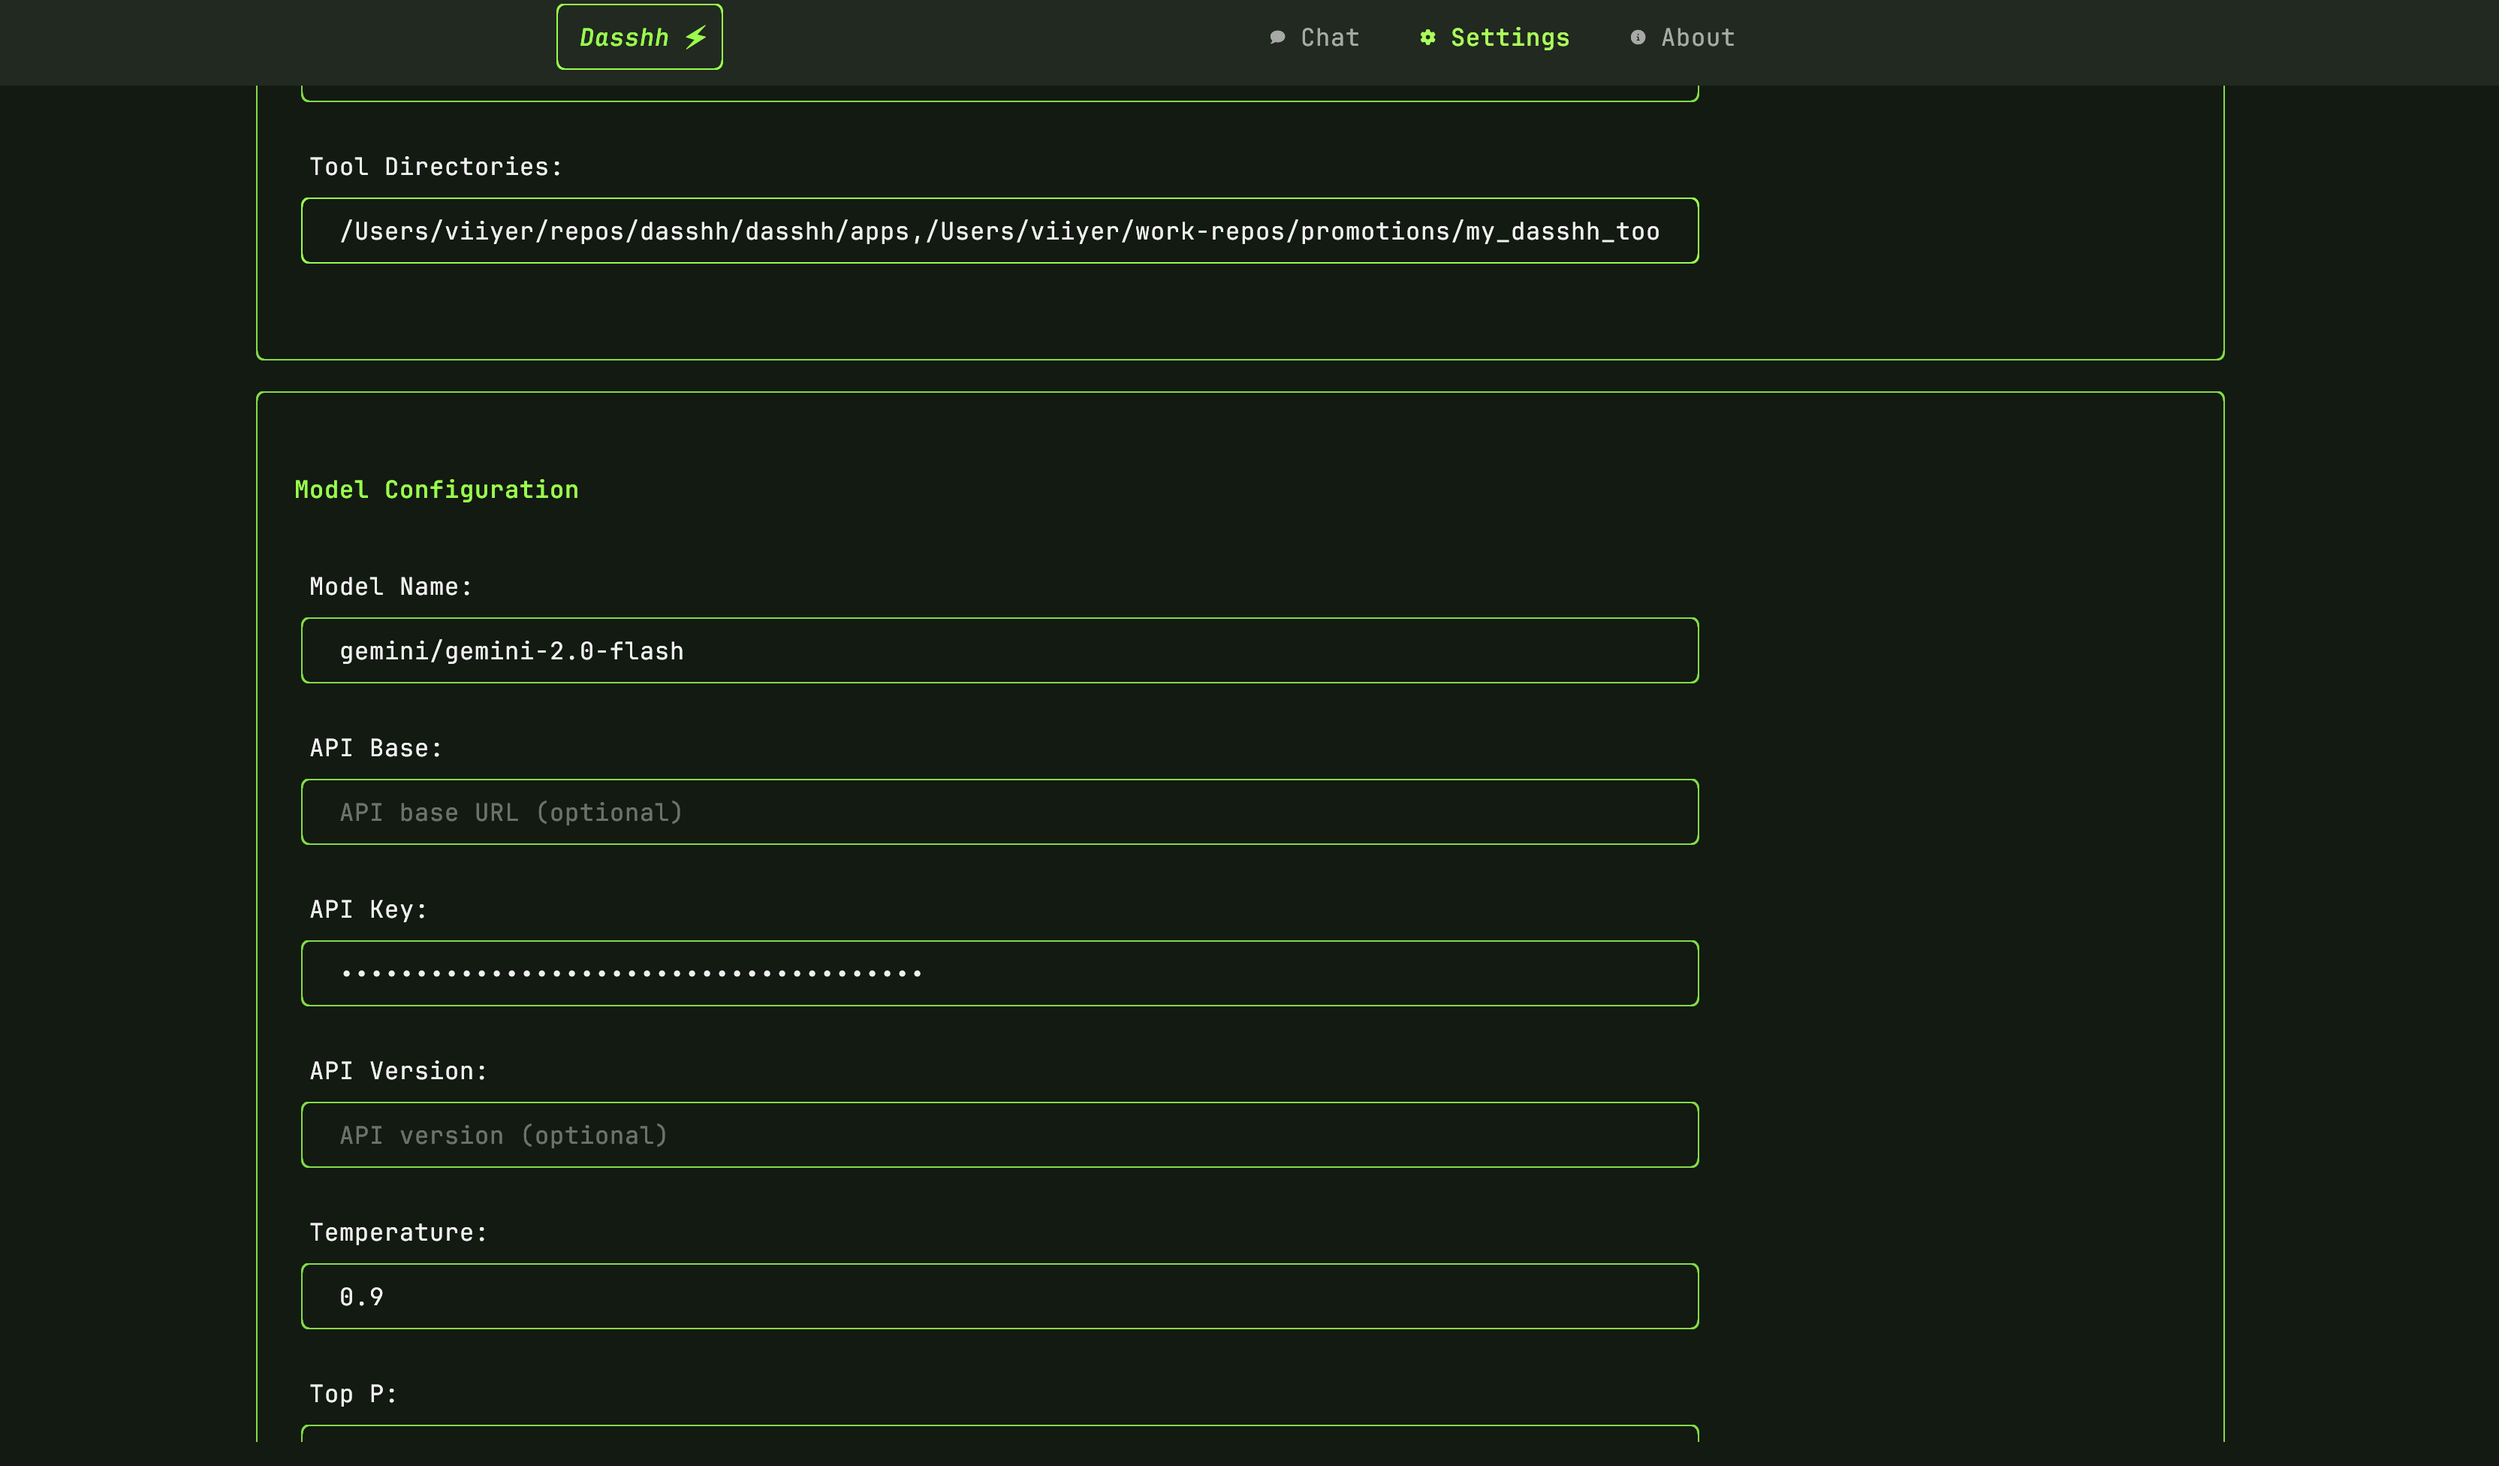
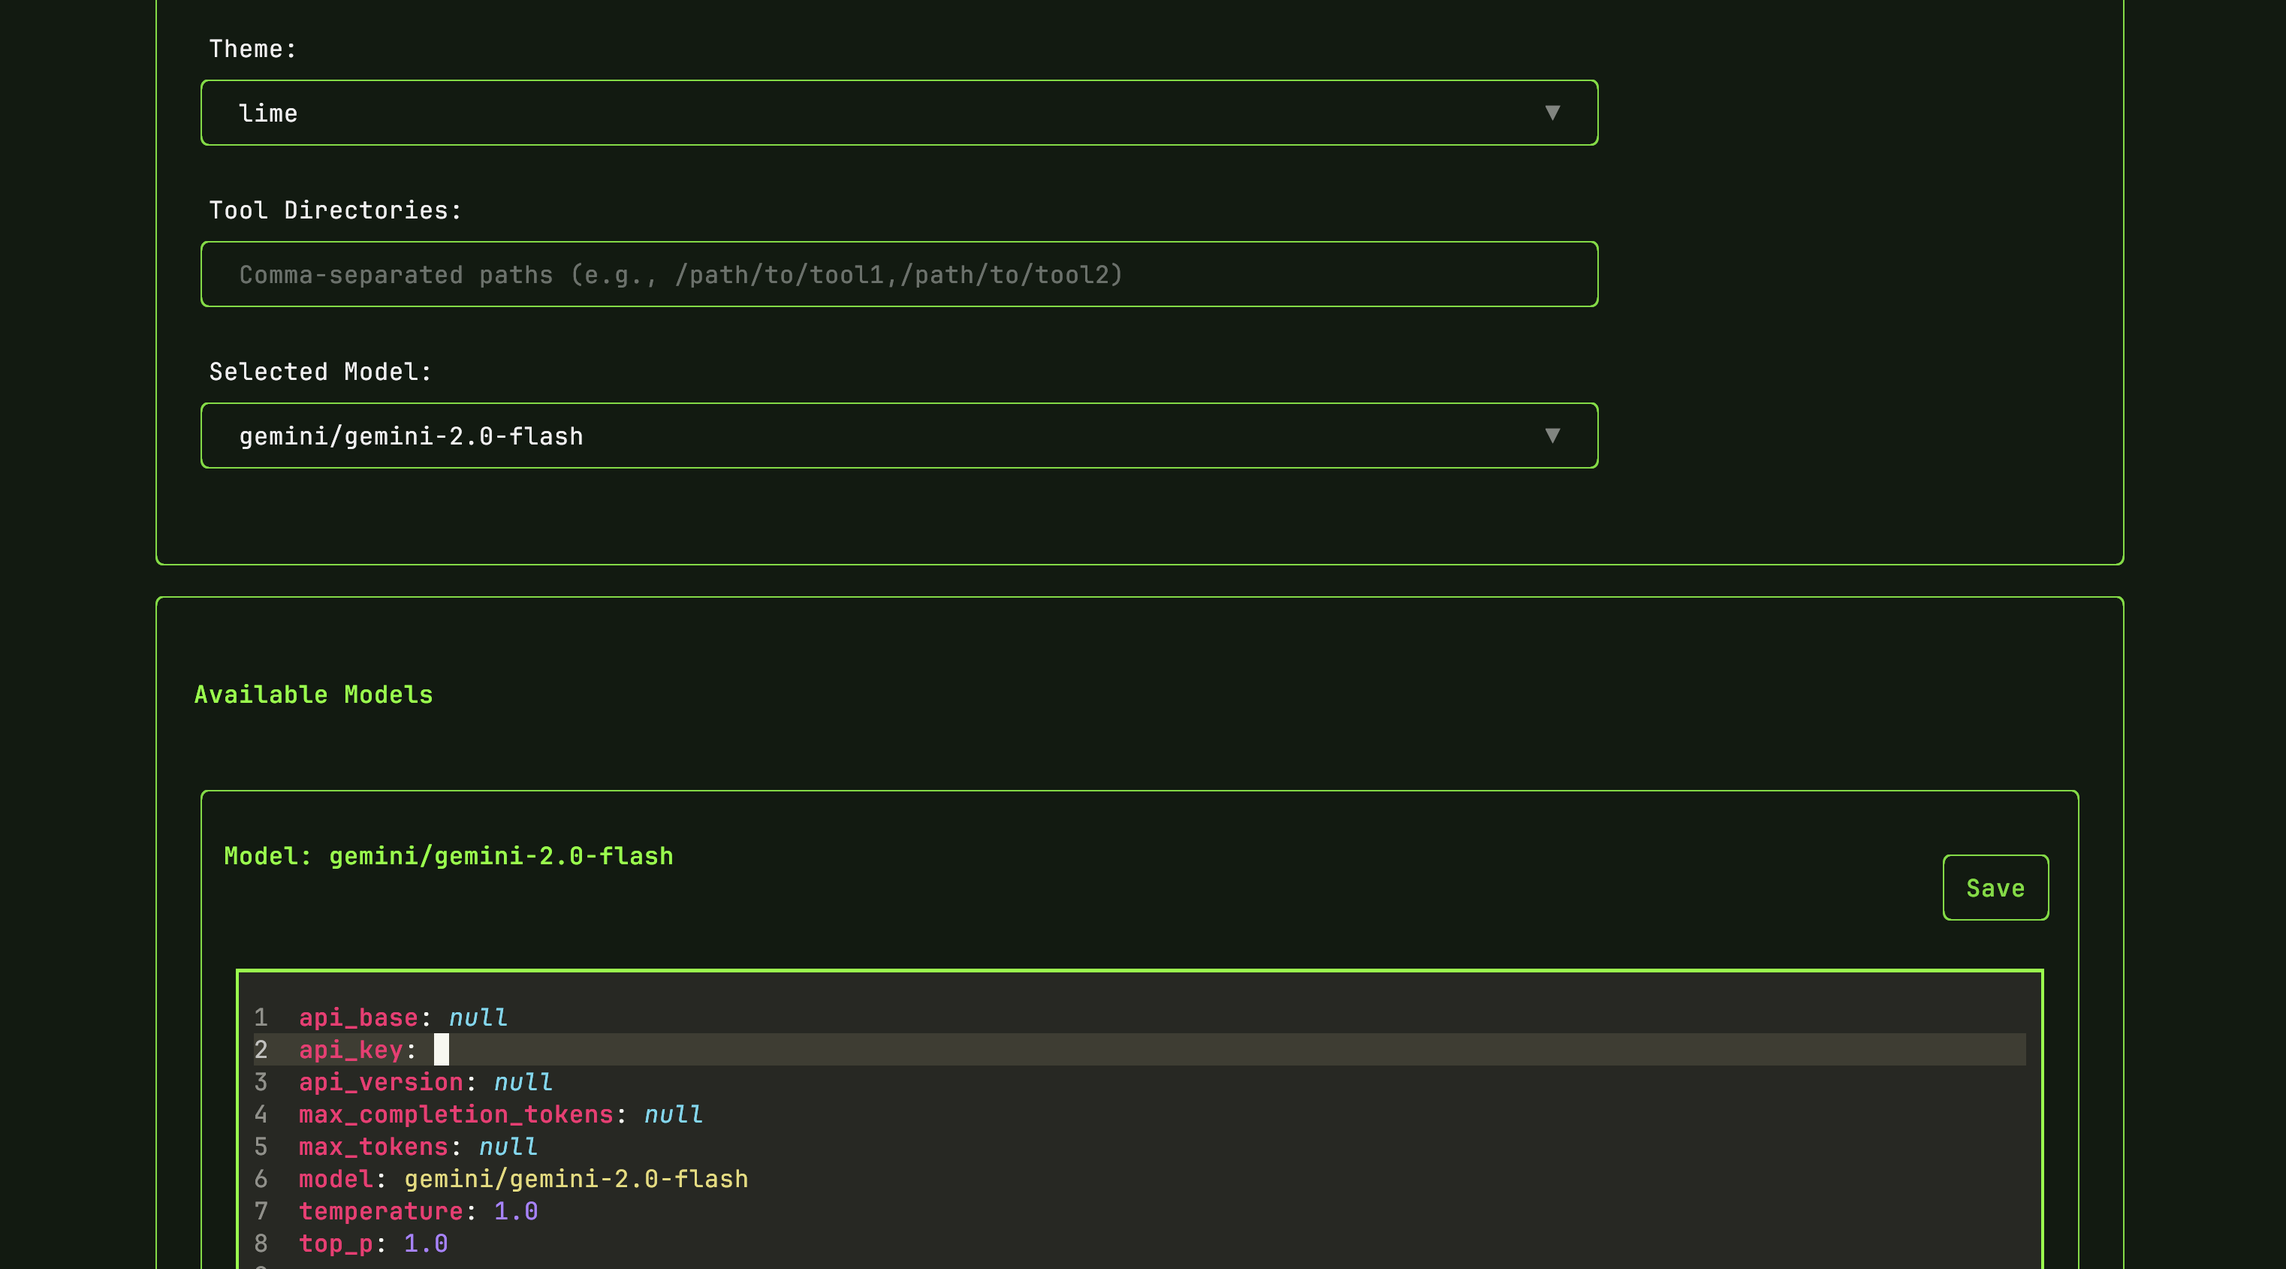
refactor: update runtime documentation and configuration to support new multi-model structure

diff --git a/docs/api/runtime.md b/docs/api/runtime.md
@@ -7,68 +7,31 @@ This page lays out all the methods and attributes available on the DasshhRuntime
 
 <!-- ----------------------- ATTRIBUTES ---------------------------------- -->
 
-## `attr` model
+## `attr` model_config
 
-The model to use for the runtime
+The model configuration dictionary containing all LiteLLM parameters
 
 ```python
-model: str = ""
+model_config: dict = {}
 ```
 
-## `attr` api_base
+This dictionary contains the complete model configuration (via `litellm_params` key) including:
 
-The base URL for the API
+- `model`: The model provider and name (e.g., "gemini/gemini-2.0-flash")
+- `api_key`: The API key for the chosen provider
+- `api_base`: The base URL for the API (optional)
+- `api_version`: The API version to use (optional)
+- `temperature`: The temperature for the model (default: 1.0)
+- `top_p`: The top_p value for the model (default: 1.0)
+- `max_tokens`: The maximum number of tokens to generate
+- `max_completion_tokens`: The maximum number of tokens for completion
 
-```python
-api_base: str = ""
-```
+## `attr` system_prompt
 
-## `attr` api_key
-
-The API key to use for the runtime
-
-```python
-api_key: str = ""
-```
-
-## `attr` api_version
-
-The API version to use for the runtime
+The system prompt for the runtime
 
 ```python
-api_version: str = ""
-```
-
-## `attr` temperature
-
-The temperature to use for the runtime
-
-```python
-temperature: float = 1.0
-```
-
-## `attr` top_p
-
-The top_p to use for the runtime
-
-```python
-top_p: float = 1.0
-```
-
-## `attr` max_tokens
-
-The max_tokens to use for the runtime
-
-```python
-max_tokens: int | None = None
-```
-
-## `attr` max_completion_tokens
-
-The max_completion_tokens to use for the runtime
-
-```python
-max_completion_tokens: int | None = None
+system_prompt: str = "Your name is Dasshh..."
 ```
 
 ## `attr` skip_summarization
@@ -81,10 +44,10 @@ skip_summarization: bool = False
 
 <!-- ---------------- PROPERTIES ------------------------------------- -->
 
-## `property` system_prompt
+## `property` get_system_prompt
 
 ```python
-system_prompt -> dict
+get_system_prompt() -> dict
 ```
 
 Returns the system prompt as a formatted message dictionary
@@ -100,16 +63,25 @@ Returns the system prompt as a formatted message dictionary
 ## `method` __init__
 
 ```python
-__init__(session_service: SessionService)
+__init__(
+    *,
+    session_service: SessionService,
+    model_config: dict = {},
+    system_prompt: str = "",
+    skip_summarization: bool = False,
+)
 ```
 
-Initialize the DasshhRuntime with a session service
+Initialize the DasshhRuntime with configuration parameters
 
 **Parameters:**
 
 | Param|<div style="width: 100px">Default</div> |Description|
 | ------------- | :----------------:  | :----------------------------------------------------------------------------------------|
 | session_service |                   | The SessionService instance for managing conversations and events                         |
+| model_config | {} | Dictionary containing LiteLLM model configuration parameters |
+| system_prompt | "" | Custom system prompt for the assistant |
+| skip_summarization | False | Whether to skip summarization after tool calls |
 
 ## `method` start
 
@@ -155,20 +127,6 @@ Submit a query to the runtime for processing
 | None          |                     | This method is async and doesn't return a value                                          |
 
 <!-- ------------------ PRIVATE METHODS -------------------------------------- -->
-
-## `method` _load_model_config
-
-```python
-_load_model_config() -> None
-```
-
-Load model configuration from the config file
-
-**Raises:**
-
-| Type|<div style="width: 100px">Default</div> |Description|
-| ------------- | :----------------:  | :----------------------------------------------------------------------------------------|
-| ValueError    |                     | If API key is not set in configuration                                                   |
 
 ## `method` _generate_prompt
 
@@ -227,22 +185,35 @@ async _handle_tool_calls(
 ) -> None
 ```
 
-Process and execute tool calls from the AI model
+Handle tool calls from the AI model
 
 **Parameters:**
 
 | Param|<div style="width: 100px">Default</div> |Description|
 | ------------- | :----------------:  | :----------------------------------------------------------------------------------------|
-| context       |                     | The invocation context                                                                    |
-| tool_calls    |                     | List of tool calls to execute                                                             |
+| context       |                     | The invocation context for this query                                                    |
+| tool_calls    |                     | List of tool calls from the AI model                                                     |
 
-## InvocationContext:
+## Configuration Integration
 
-A named tuple to store current query context.
+The DasshhRuntime receives its model configuration from the Dasshh app, which manages multiple model configurations:
 
-| Param | Type | Description |
-|-------|------|-------------|
-| invocation_id | str | The ID of the invocation |
-| message | dict | The message to send to the LLM |
-| session_id | str | The ID of the session |
-| system_instruction | bool | Whether to use the system instruction |
+```python
+# Example of how the runtime is configured
+runtime = DasshhRuntime(
+    session_service=session_service,
+    model_config={
+        "model_name": "gemini-flash",
+        "litellm_params": {
+            "model": "gemini/gemini-2.0-flash",
+            "api_key": "your-api-key",
+            "temperature": 0.7,
+            "max_tokens": 2000
+        }
+    },
+    system_prompt="Your custom system prompt",
+    skip_summarization=False
+)
+```
+
+The model configuration corresponds to the `litellm_params` section of a model entry in the configuration file.

diff --git a/docs/guide/configuration.md b/docs/guide/configuration.md
@@ -12,6 +12,9 @@ Below command helps you initialize the configuration file.
 dasshh init-config
 ```
 
+!!! note "Automatic Migration"
+    If you have an existing configuration file with the old `model:` format, Dasshh will automatically migrate it to the new format when you start the application.
+
 ## Configuration Options
 
 ### Dasshh Configuration
@@ -22,19 +25,21 @@ dasshh init-config
 | `system_prompt` | The system prompt for the assistant |
 | `theme` | The theme to use for the UI |
 | `tool_directories` | The directories to search for tools |
+| `selected_model` | The currently selected model name from your configured models |
 
-### Model Configuration
+### Models Configuration
+
+The `models` section allows you to configure multiple AI models.
+
+Each model entry has the following structure:
 
 | Option | Description |
 |--------|-------------|
-| `model.name` | The model provider and model name |
-| `model.api_key` | Your API key for the chosen provider |
-| `model.api_base` | The base URL for the chosen provider |
-| `model.api_version` | The version of the API to use |
-| `model.temperature` | The temperature for the model |
-| `model.top_p` | The top-p value for the model |
-| `model.max_tokens` | The maximum number of tokens to generate |
-| `model.max_completion_tokens` | The maximum number of tokens to generate for the completion |
+| `model_name` | A unique identifier for this model configuration |
+| `litellm_params` | Model specific configurations (litellm compatible) |
+
+!!! note
+    Visit [LiteLLM documentation](https://docs.litellm.ai/docs/proxy/configs) to see the complete list of supported parameters.
 
 ## Example Configuration File
 
@@ -50,18 +55,41 @@ dasshh:
   theme: lime
   tool_directories:
     - /Users/viiyer/repos/dasshh/dasshh/apps
+  selected_model: gemini-flash
 
-# Model configuration
-model:
-  name: gemini/gemini-2.0-flash
-  api_base:
-  api_key: <your-google-AI-studio-api-key>
-  api_version:
-  temperature: 1.0
-  top_p: 1.0
-  max_tokens: 1000
-  max_completion_tokens: 1000
+# Models configuration - you can configure multiple models
+models:
+  - model_name: gemini-flash  # Human readable name for the model
+    litellm_params:
+      model: gemini/gemini-2.0-flash
+      api_key: <your-google-AI-studio-api-key>
+      temperature: 1.0
+      top_p: 1.0
+      max_tokens: 1000
+      max_completion_tokens: 1000
+      
+  - model_name: gpt-4o
+    litellm_params:
+      model: gpt-4o
+      api_key: <your-openai-api-key>
+      temperature: 0.7
+      max_tokens: 2000
+      
+  - model_name: claude-sonnet
+    litellm_params:
+      model: anthropic/claude-3-5-sonnet-20241022
+      api_key: <your-anthropic-api-key>
+      temperature: 0.8
 ```
+
+## Multi-Model Support
+
+You can configure multiple models and switch between them:
+
+1. **Configure models** - Add multiple model configurations in the `models` array
+2. **Select active model** - Set `dasshh.selected_model` to the `model_name` of your choice
+3. **Switch models** - Use `Ctrl+M` in the UI to quickly switch between configured models
+4. **Manage in UI** - Use the Settings panel to add, edit, or configure models with a visual interface
 
 ## Supported Models
 
@@ -70,7 +98,10 @@ Dasshh supports a variety of models through [LiteLLM](https://docs.litellm.ai/do
 ### Format for specifying a model
 
 ```yaml
-model:
-  name: <provider>/<model-name>
-  api_key: <your-api-key>
+models:
+  - model_name: my-custom-name
+    litellm_params:
+      model: <provider>/<model-name>
+      api_key: <your-api-key>
+      # ... other parameters
 ```

diff --git a/docs/getting-started/quick-start.md b/docs/getting-started/quick-start.md
@@ -14,18 +14,35 @@ dasshh init-config
 
 This will create a config file at `~/.dasshh/config.yaml`.
 
-To get started, you need to set the model you want to use.
+To get started, you need to configure at least one model. The new configuration format supports multiple models:
 
-1. `model.name`: The model provider and model name.
-2. `model.api_key`: Your API key for the chosen provider.
+1. `model_name`: A unique identifier for your model
+2. `litellm_params.model`: The model provider and model name
+3. `litellm_params.api_key`: Your API key for the chosen provider
 
 **Example:**
 
 ```yaml
-model:
-  name: gemini/gemini-2.0-flash
-  api_key: <your-google-AI-studio-api-key>
+dasshh:
+  selected_model: my-gemini  # Select which model to use
+
+models:
+  - model_name: my-gemini
+    litellm_params:
+      model: gemini/gemini-2.0-flash
+      api_key: <your-google-AI-studio-api-key>
 ```
+
+!!! note "Automatic Migration"
+    If you have an existing config file with old format (supporting only one model), Dasshh will automatically migrate it to the new format when you start the application.
+
+### Multiple Models
+
+You can configure multiple models and switch between them:
+
+- **In the config file**: Set `dasshh.selected_model` to the `model_name` you want to use
+- **In the UI**: Use `Ctrl+M` to quickly switch between configured models
+- **In Settings**: Use the visual interface to add, edit, and manage your model configurations
 
 You can also set the model name and API key in the settings menu.
 
